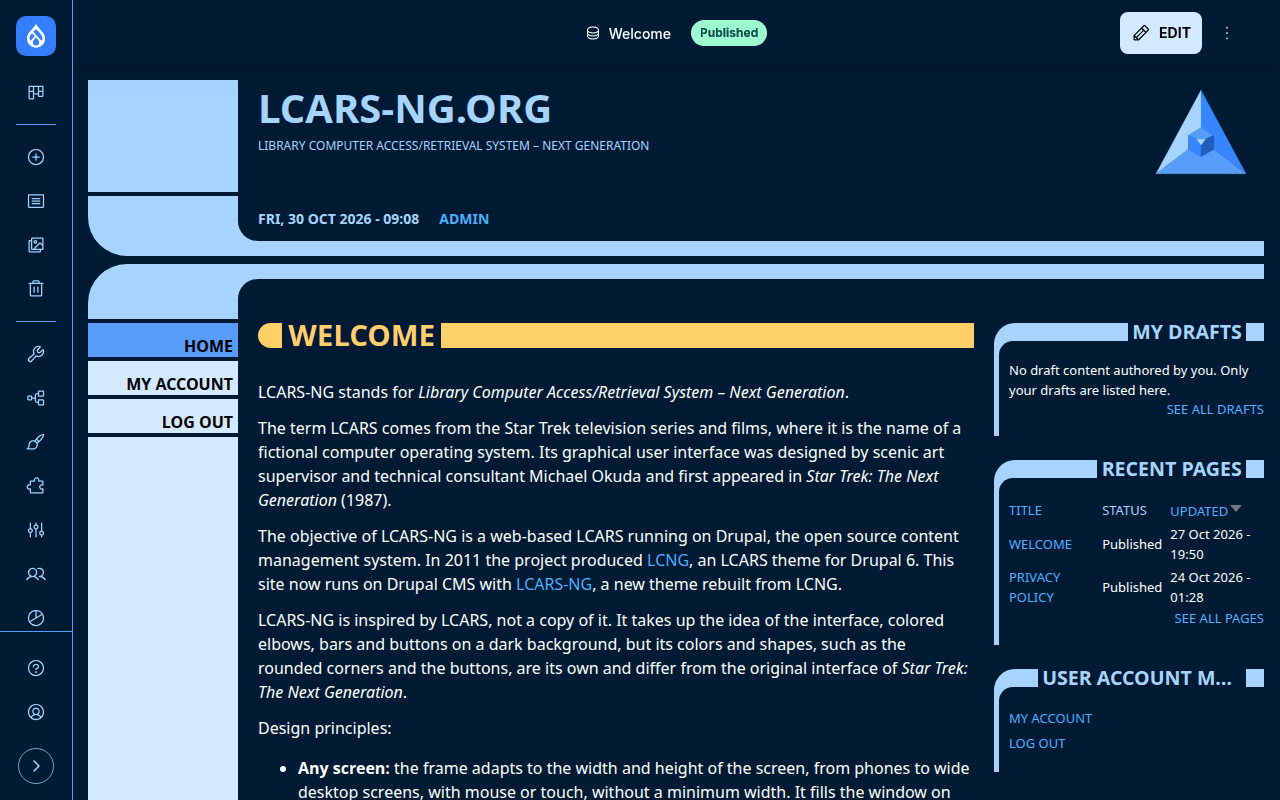
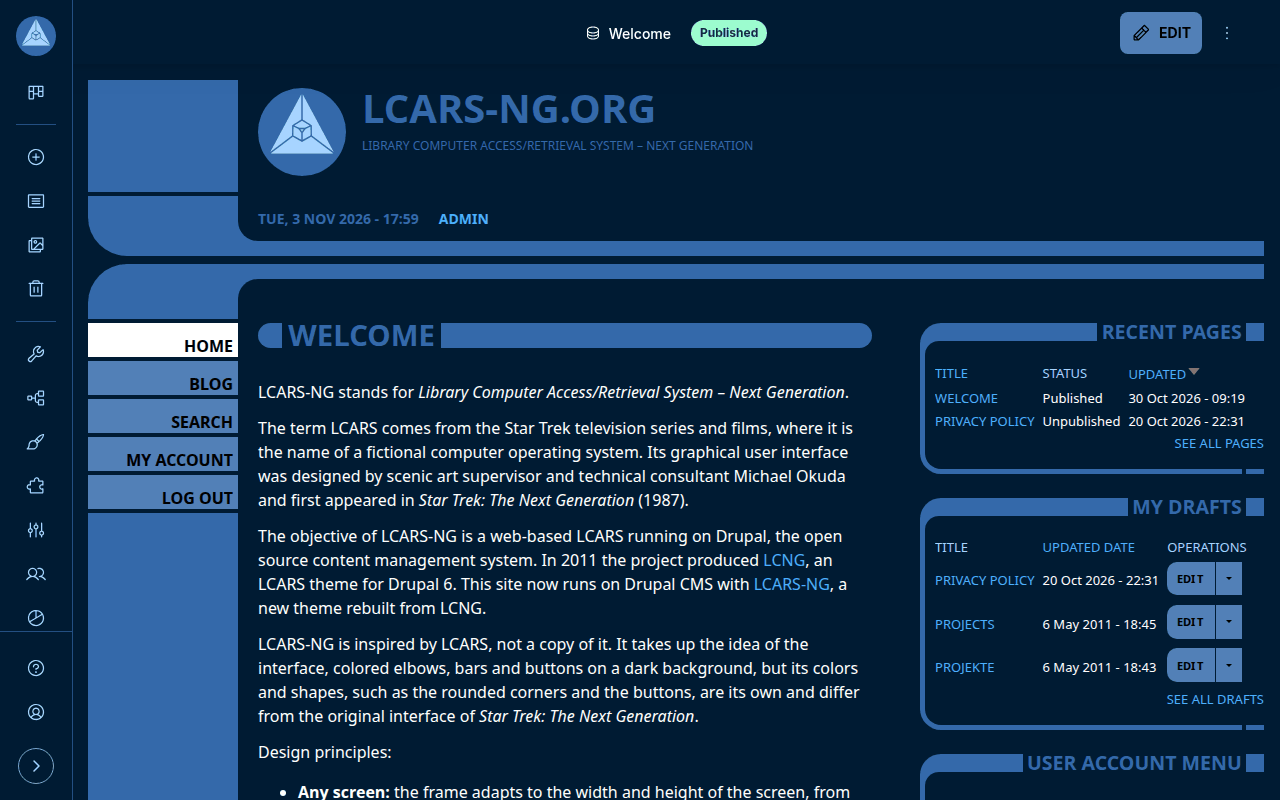
README: screenshots of the current state with the contrast setting Standard, the dashboard with announcements

diff --git a/README.md b/README.md
@@ -16,8 +16,8 @@ pages scroll. It follows the settings of the system for more contrast,
 contrast themes and reduced motion.
 
 <p>
-  <a href="images/screenshots/front-page.png"><img src="images/screenshots/front-page.png" width="49%" alt="LCARS-NG front page for signed-in users with the contrast setting High, with the collapsed Navigation of Drupal on the left and its top bar: upper panel with site name, slogan and logo, status line with date and user, menu buttons on the left, content and panels below"></a>
-  <a href="images/screenshots/dashboard.png"><img src="images/screenshots/dashboard.png" width="49%" alt="The dashboard in LCARS-NG with the contrast setting High: cards for recent content and top tasks, below them the Drupal events as an agenda"></a>
+  <a href="images/screenshots/front-page.png"><img src="images/screenshots/front-page.png" width="49%" alt="LCARS-NG front page for signed-in users with the contrast setting Standard, with the collapsed Navigation of Drupal on the left and its top bar: upper panel with logo, site name and slogan, status line with date and user, menu buttons on the left, content and panels below"></a>
+  <a href="images/screenshots/dashboard.png"><img src="images/screenshots/dashboard.png" width="49%" alt="The dashboard in LCARS-NG with the contrast setting Standard: cards for recent content and top tasks, below them announcements and the Drupal events as an agenda"></a>
 </p>
 
 - To see the theme on a live site, visit the
